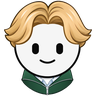
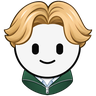
BWL Max: Zipper kürzer und breiter wie im Original, kein heller Rand unten im Dark Mode
Claude-Session: https://claude.ai/code/session_01Rrx3BPHrRPsxut6ZYjGyzy

diff --git a/tutor/js/face.js b/tutor/js/face.js
@@ -216,7 +216,7 @@ function COLLAR(u) {
 </defs>
 <path fill="#122c1f" d="M346 684 C420 652 604 652 678 684 L652 702 C590 682 434 682 372 702 Z"/>
 <path fill="url(#fzn${u})" d="M362 640 L662 640 L660 700 L512 852 L364 700 Z"/>
-<image href="${COLLAR_SRC}" x="296.5" y="609.83" width="431.8" height="289.92" preserveAspectRatio="none"/>
+<clipPath id="fzv${u}"><path d="M362 640 L662 640 L660 700 L512 846 L364 700 Z"/></clipPath><image clip-path="url(#fzv${u})" href="${COLLAR_SRC}" x="296.5" y="609.83" width="431.8" height="289.92" preserveAspectRatio="none"/>
 <ellipse class="fzc-shade" clip-path="url(#fzk${u})" fill="#1b2533" cx="512" cy="509" rx="263" ry="258"/>
 <path fill="url(#fzu${u})" d="M512 838 C507.8 833.5 497 820.8 487 811 C477 801.2 463.5 789.2 452 779 C440.5 768.8 428.3 759.5 418 750 C407.7 740.5 398.8 731.5 390 722 C381.2 712.5 369.2 697.8 365 693 L348 678 Q340 680 327 689 C325.7 693.7 321.5 707.5 319 717 C316.5 726.5 313.6 737.7 312 746 C310.4 754.3 309.3 760.8 309.5 767 C309.7 773.2 309.4 776.5 313 783 C316.6 789.5 322.3 797.5 331 806 C339.7 814.5 353.3 825.8 365 834 C376.7 842.2 389.2 849 401 855 C412.8 861 424.2 865.7 436 870 C447.8 874.3 459.3 878.2 472 881 C484.7 883.8 505.3 886 512 887 C518.7 886 539.3 883.8 552 881 C564.7 878.2 576.2 874.3 588 870 C599.8 865.7 611.2 861 623 855 C634.8 849 647.3 842.2 659 834 C670.7 825.8 684.3 814.5 693 806 C701.7 797.5 707.4 789.5 711 783 C714.6 776.5 714.3 773.2 714.5 767 C714.7 760.8 713.6 754.3 712 746 C710.4 737.7 707.5 726.5 705 717 C702.5 707.5 698.3 693.7 697 689 Q684 680 676 678 L659 693 C654.8 697.8 642.8 712.5 634 722 C625.2 731.5 616.3 740.5 606 750 C595.7 759.5 583.5 768.8 572 779 C560.5 789.2 547 801.2 537 811 C527 820.8 516.2 833.5 512 838 Z"/>
 <path fill="url(#fzl${u})" d="M313.5 766 C313.4 765.8 323.2 764.2 333 765 C342.8 765.8 356.5 768.5 368 771 C379.5 773.5 390.5 776.2 402 780 C413.5 783.8 425.5 789 437 794 C448.5 799 461 804.7 471 810 C481 815.3 490.3 821.5 497 826 C503.7 830.5 508.7 835.2 511 837 C511.3 837 512.7 837 513 837 C515.3 835.2 520.3 830.5 527 826 C533.7 821.5 543 815.3 553 810 C563 804.7 575.5 799 587 794 C598.5 789 610.5 783.8 622 780 C633.5 776.2 644.5 773.5 656 771 C667.5 768.5 681.2 765.8 691 765 C700.8 764.2 710.6 765.8 714.5 766 C713.9 769.7 714.6 776.5 711 783 C707.4 789.5 701.7 797.5 693 806 C684.3 814.5 670.7 825.8 659 834 C647.3 842.2 634.8 849 623 855 C611.2 861 599.8 865.7 588 870 C576.2 874.3 564.7 878.2 552 881 C539.3 883.8 518.7 886 512 887 C505.3 886 484.7 883.8 472 881 C459.3 878.2 447.8 874.3 436 870 C424.2 865.7 412.8 861 401 855 C389.2 849 376.7 842.2 365 834 C353.3 825.8 339.7 814.5 331 806 C322.3 797.5 316.6 789.5 313 783 C309.4 776.5 310.1 769.7 309.5 767 Z"/>
@@ -224,8 +224,8 @@ function COLLAR(u) {
 <path fill="none" stroke="#4d916f" stroke-width="3" opacity=".55" stroke-linecap="round" d="M331 700 C323 724 316 748 314 760 M693 700 C701 724 708 748 710 760"/>
 <path fill="none" stroke="#0c1f16" stroke-width="5" stroke-linejoin="round" d="M512 838 C507.8 833.5 497 820.8 487 811 C477 801.2 463.5 789.2 452 779 C440.5 768.8 428.3 759.5 418 750 C407.7 740.5 398.8 731.5 390 722 C381.2 712.5 369.2 697.8 365 693 L348 678 Q340 680 327 689 C325.7 693.7 321.5 707.5 319 717 C316.5 726.5 313.6 737.7 312 746 C310.4 754.3 309.3 760.8 309.5 767 C309.7 773.2 309.4 776.5 313 783 C316.6 789.5 322.3 797.5 331 806 C339.7 814.5 353.3 825.8 365 834 C376.7 842.2 389.2 849 401 855 C412.8 861 424.2 865.7 436 870 C447.8 874.3 459.3 878.2 472 881 C484.7 883.8 505.3 886 512 887 C518.7 886 539.3 883.8 552 881 C564.7 878.2 576.2 874.3 588 870 C599.8 865.7 611.2 861 623 855 C634.8 849 647.3 842.2 659 834 C670.7 825.8 684.3 814.5 693 806 C701.7 797.5 707.4 789.5 711 783 C714.6 776.5 714.3 773.2 714.5 767 C714.7 760.8 713.6 754.3 712 746 C710.4 737.7 707.5 726.5 705 717 C702.5 707.5 698.3 693.7 697 689 Q684 680 676 678 L659 693 C654.8 697.8 642.8 712.5 634 722 C625.2 731.5 616.3 740.5 606 750 C595.7 759.5 583.5 768.8 572 779 C560.5 789.2 547 801.2 537 811 C527 820.8 516.2 833.5 512 838 Z"/>
 <g fill="none" stroke-linecap="round"><path stroke="#0c1f16" stroke-width="6.4" d="M313.5 766 C313.4 765.8 323.2 764.2 333 765 C342.8 765.8 356.5 768.5 368 771 C379.5 773.5 390.5 776.2 402 780 C413.5 783.8 425.5 789 437 794 C448.5 799 461 804.7 471 810 C481 815.3 490.3 821.5 497 826 C503.7 830.5 508.7 835.2 511 837 M710.5 766 C710.6 765.8 700.8 764.2 691 765 C681.2 765.8 667.5 768.5 656 771 C644.5 773.5 633.5 776.2 622 780 C610.5 783.8 598.5 789 587 794 C575.5 799 563 804.7 553 810 C543 815.3 533.7 821.5 527 826 C520.3 830.5 515.3 835.2 513 837"/><path stroke="#a2a8af" stroke-width="3.6" d="M313.5 766 C313.4 765.8 323.2 764.2 333 765 C342.8 765.8 356.5 768.5 368 771 C379.5 773.5 390.5 776.2 402 780 C413.5 783.8 425.5 789 437 794 C448.5 799 461 804.7 471 810 C481 815.3 490.3 821.5 497 826 C503.7 830.5 508.7 835.2 511 837 M710.5 766 C710.6 765.8 700.8 764.2 691 765 C681.2 765.8 667.5 768.5 656 771 C644.5 773.5 633.5 776.2 622 780 C610.5 783.8 598.5 789 587 794 C575.5 799 563 804.7 553 810 C543 815.3 533.7 821.5 527 826 C520.3 830.5 515.3 835.2 513 837"/><path stroke="#f1f3f5" stroke-width="1.2" transform="translate(0 -.8)" d="M313.5 766 C313.4 765.8 323.2 764.2 333 765 C342.8 765.8 356.5 768.5 368 771 C379.5 773.5 390.5 776.2 402 780 C413.5 783.8 425.5 789 437 794 C448.5 799 461 804.7 471 810 C481 815.3 490.3 821.5 497 826 C503.7 830.5 508.7 835.2 511 837 M710.5 766 C710.6 765.8 700.8 764.2 691 765 C681.2 765.8 667.5 768.5 656 771 C644.5 773.5 633.5 776.2 622 780 C610.5 783.8 598.5 789 587 794 C575.5 799 563 804.7 553 810 C543 815.3 533.7 821.5 527 826 C520.3 830.5 515.3 835.2 513 837"/><path stroke="#c6cbd1" stroke-width="5.6" stroke-linecap="butt" stroke-dasharray="1.7 1.9" d="M471 810 C475.3 812.7 490.3 821.5 497 826 C503.7 830.5 508.7 835.2 511 837 M553 810 C548.7 812.7 533.7 821.5 527 826 C520.3 830.5 515.3 835.2 513 837"/></g>
-<g fill="url(#fzz${u})" stroke="#474c54" stroke-width="2"><path d="M501 829 C501 826.5 503 825 505.5 825 L518.5 825 C521 825 523 826.5 523 829 L520.8 845.5 C520.4 848.2 518.4 849.6 515.8 849.6 L508.2 849.6 C505.6 849.6 503.6 848.2 503.2 845.5 Z"/><rect x="505" y="846" width="14" height="44" rx="5.2"/></g>
-<rect fill="#3a3e45" x="508.4" y="877" width="7.2" height="7" rx="2.1"/>
-<path stroke="#fff" stroke-width="1.8" opacity=".75" stroke-linecap="round" d="M507.9 852 L507.9 871"/>
+<g fill="url(#fzz${u})" stroke="#474c54" stroke-width="2"><path d="M498.5 828.5 C498.5 825.8 500.8 824 503.5 824 L520.5 824 C523.2 824 525.5 825.8 525.5 828.5 L523 846 C522.6 848.8 520.4 850.4 517.6 850.4 L506.4 850.4 C503.6 850.4 501.4 848.8 501 846 Z"/><rect x="500.5" y="845" width="23" height="31" rx="6"/></g>
+<rect fill="#3a3e45" x="506" y="864" width="12" height="6.5" rx="2.2"/>
+<path stroke="#fff" stroke-width="2" opacity=".75" stroke-linecap="round" d="M504.6 851 L504.6 859"/>
 </g>`;
 }

diff --git a/tutor/index.html b/tutor/index.html
@@ -9,22 +9,22 @@
 <meta name="description" content="Lade deinen Unistoff hoch – Vorlesung, Skript oder Altklausur – und lern mit BWL Max, dem Tutor, der an die Tafel schreibt: Erklärungen, Quizze, Karteikarten, Lernpfad, Podcast und Übungs-Trainer. Kostenlos, ohne Anmeldung.">
 <link rel="canonical" href="https://www.bwlmax.de/">
 <meta name="theme-color" content="#ffffff">
-<link rel="icon" href="/tutor/img/favicon.ico?v=6" sizes="48x48">
-<link rel="icon" type="image/png" sizes="48x48" href="/tutor/img/max-fav-48.png?v=6">
-<link rel="icon" type="image/png" sizes="96x96" href="/tutor/img/max-fav-96.png?v=6">
-<link rel="icon" type="image/png" sizes="192x192" href="/tutor/img/max-fav-192.png?v=6">
-<link rel="apple-touch-icon" href="/tutor/img/max-fav-180.png?v=6">
+<link rel="icon" href="/tutor/img/favicon.ico?v=7" sizes="48x48">
+<link rel="icon" type="image/png" sizes="48x48" href="/tutor/img/max-fav-48.png?v=7">
+<link rel="icon" type="image/png" sizes="96x96" href="/tutor/img/max-fav-96.png?v=7">
+<link rel="icon" type="image/png" sizes="192x192" href="/tutor/img/max-fav-192.png?v=7">
+<link rel="apple-touch-icon" href="/tutor/img/max-fav-180.png?v=7">
 <meta property="og:title" content="BWL Max – dein Tutor fürs Wirtschaftsstudium">
 <meta property="og:site_name" content="BWL Max">
 <meta name="application-name" content="BWL Max">
 <script type="application/ld+json">{"@context":"https://schema.org","@type":"WebSite","name":"BWL Max","alternateName":["BWL Max Tutor","Tutor BWL Max"],"url":"https://www.bwlmax.de/"}</script>
 <meta property="og:description" content="Lade deine Vorlesung hoch. Max erklärt sie dir – an der Tafel, mit Quiz, Karteikarten und Podcast.">
-<meta property="og:image" content="https://www.bwlmax.de/tutor/img/og-max.png?v=4">
+<meta property="og:image" content="https://www.bwlmax.de/tutor/img/og-max.png?v=5">
 <meta property="og:type" content="website">
 <meta name="twitter:card" content="summary_large_image">
 <link rel="preload" href="/tutor/fonts/Geist-Variable.woff2" as="font" type="font/woff2" crossorigin>
 <link rel="stylesheet" href="/tutor/css/app.css?v=99">
-<link rel="stylesheet" href="/tutor/css/trainer.css?v=6">
+<link rel="stylesheet" href="/tutor/css/trainer.css?v=7">
 <style>html.preload{background:#000}html.preload[data-theme=light]{background:#fff}html.preload body{opacity:0}html body{transition:opacity .25s ease}</style>
 <script>document.documentElement.classList.add('preload');setTimeout(function(){document.documentElement.classList.remove('preload')},2500);</script>
 <script>document.documentElement.dataset.theme='light';try{var t=sessionStorage.getItem('tutor.theme');if(t==='dark')document.documentElement.dataset.theme='dark'}catch(e){}var c='gruen';try{var v=localStorage.getItem('tutor.accent');if(v!=null)c=v}catch(e){}if(c&&c!=='std'&&/^[a-z]{3,12}$/.test(c))document.documentElement.dataset.accent=c;</script>
@@ -267,7 +267,7 @@ x* = 60.000 € ÷ 20 € = 3.000 Stück</div>
 
 <noscript><p style="padding:40px;text-align:center">Bitte aktiviere JavaScript, um BWL Max zu nutzen.</p></noscript>
 <script>(function(){if(/(^|\.)bwlmax\.de$/.test(location.hostname))document.querySelectorAll('[data-legal]').forEach(function(a){a.href='/'+a.dataset.legal});})();</script>
-<script src="/tutor/js/consent.js?v=6"></script>
+<script src="/tutor/js/consent.js?v=7"></script>
 <script type="module" src="/tutor/js/main.js?v=10"></script>
 </body>
 </html>
